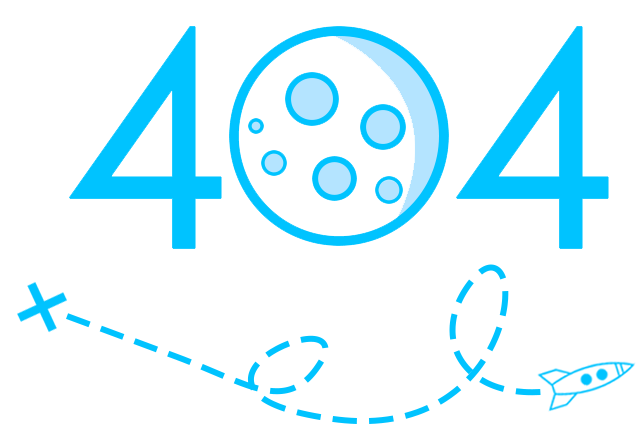
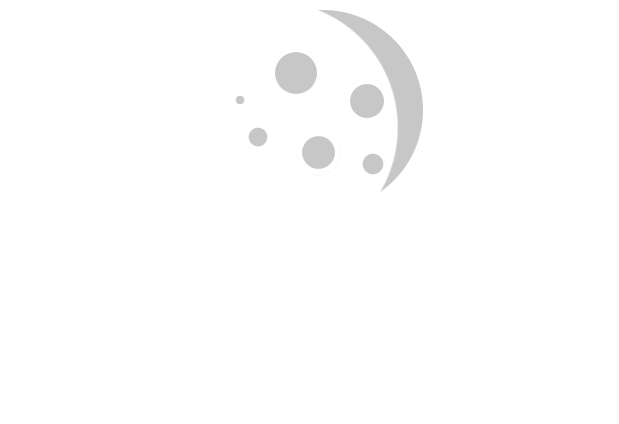
new 404

diff --git a/src/components/pages/error404.js b/src/components/pages/error404.js
@@ -1,6 +1,5 @@
 "use strict"
 import React, { Component } from 'react';
-import { Paper } from 'material-ui';
 import { browserHistory } from 'react-router';
 import {connect} from 'react-redux';
 import MetaTags from 'react-meta-tags';
@@ -19,23 +18,26 @@ class error404 extends Component {
             route = '/myEvaluations';
         }
         return (
-            <div className="fillScreen greenToBlue" style={{textAlign:"center"}}>
+            <div className="fillScreen formContainer" style={{textAlign:"center"}}>
                 <MetaTags>
                     <title>404 | Moonshot</title>
                     <meta name="description" content="You are lost but we can show you the way." />
                 </MetaTags>
-                <Paper className="form bigForm semiOpaquePaper blueTextImportant font20px font14pxUnder700 font10pxUnder400" zDepth={2}>
-                    <img
-                        alt="404 Image - Rocket Doing Loops"
-                        src="/images/404.png"
-                        id="image404"
-                    /><br/>
-                    You seem a little lost,<br/> but we can show you the way!
-                    <p  className="clickable blueText underline"
-                        onClick={() => this.goTo(route)}>
-                        Follow Me
-                    </p>
-                </Paper>
+
+                <div className="form lightBlackForm noBlur">
+                    <form>
+                        <img
+                            alt="404 Image - Rocket Doing Loops"
+                            src="/images/404.png"
+                            id="image404"
+                        /><br/>
+                        You seem a little lost,<br/> but we can show you the way!
+                        <p  className="clickable blueText underline"
+                            onClick={() => this.goTo(route)}>
+                            Follow Me
+                        </p>
+                    </form>
+                </div>
             </div>
         );
     }

diff --git a/public/style.css b/public/style.css
@@ -3713,8 +3713,7 @@ li.pathwayPreviewLi.featuredPathwayPreview { margin-bottom: 60px; }
 #image404 {
     width: 80%;
     max-width: 500px;
-    margin-left: -2%;
-    margin-bottom: 15px;
+    margin: 15px 0 15px -2%
 }
 
 .termsPage {
